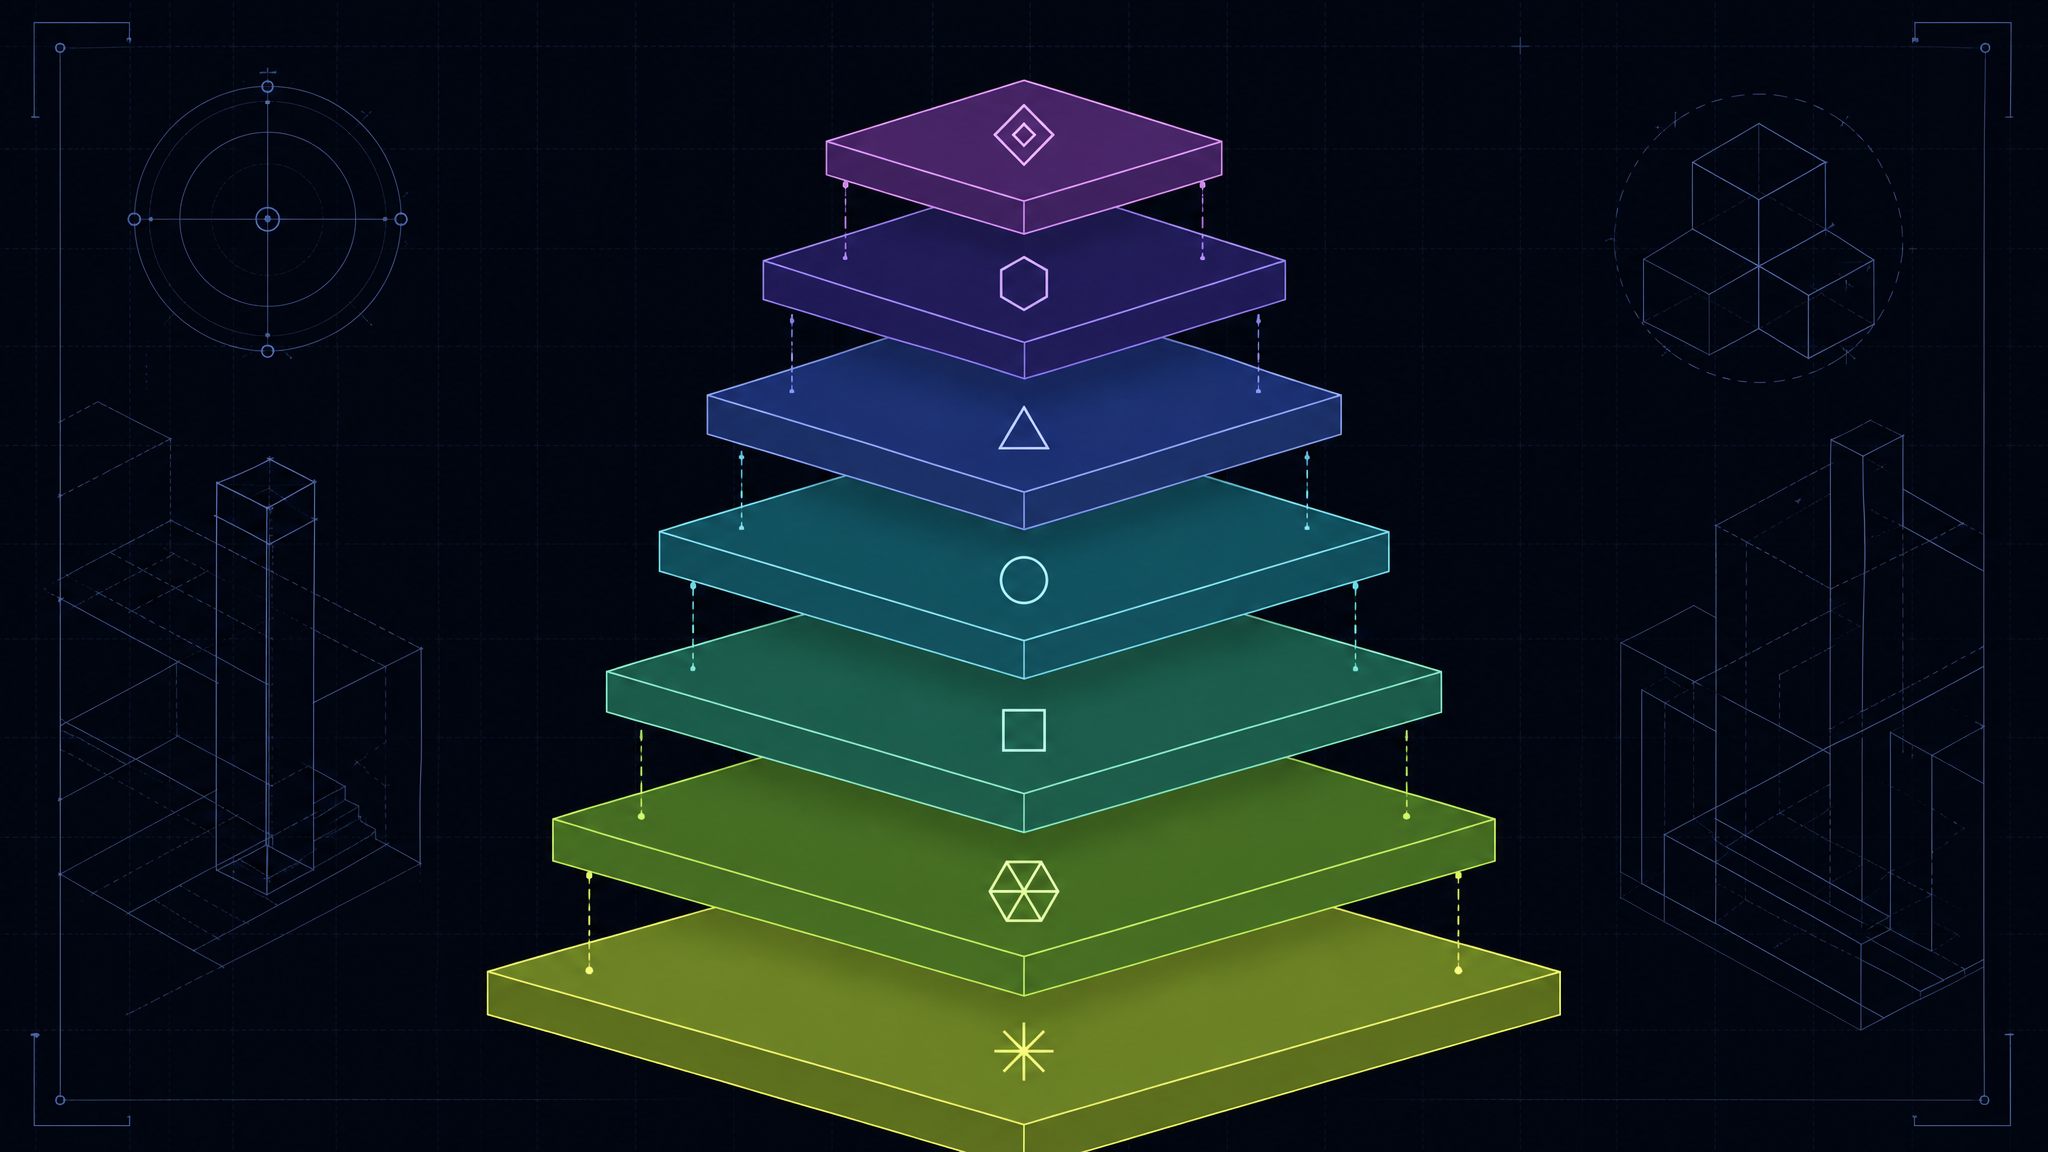
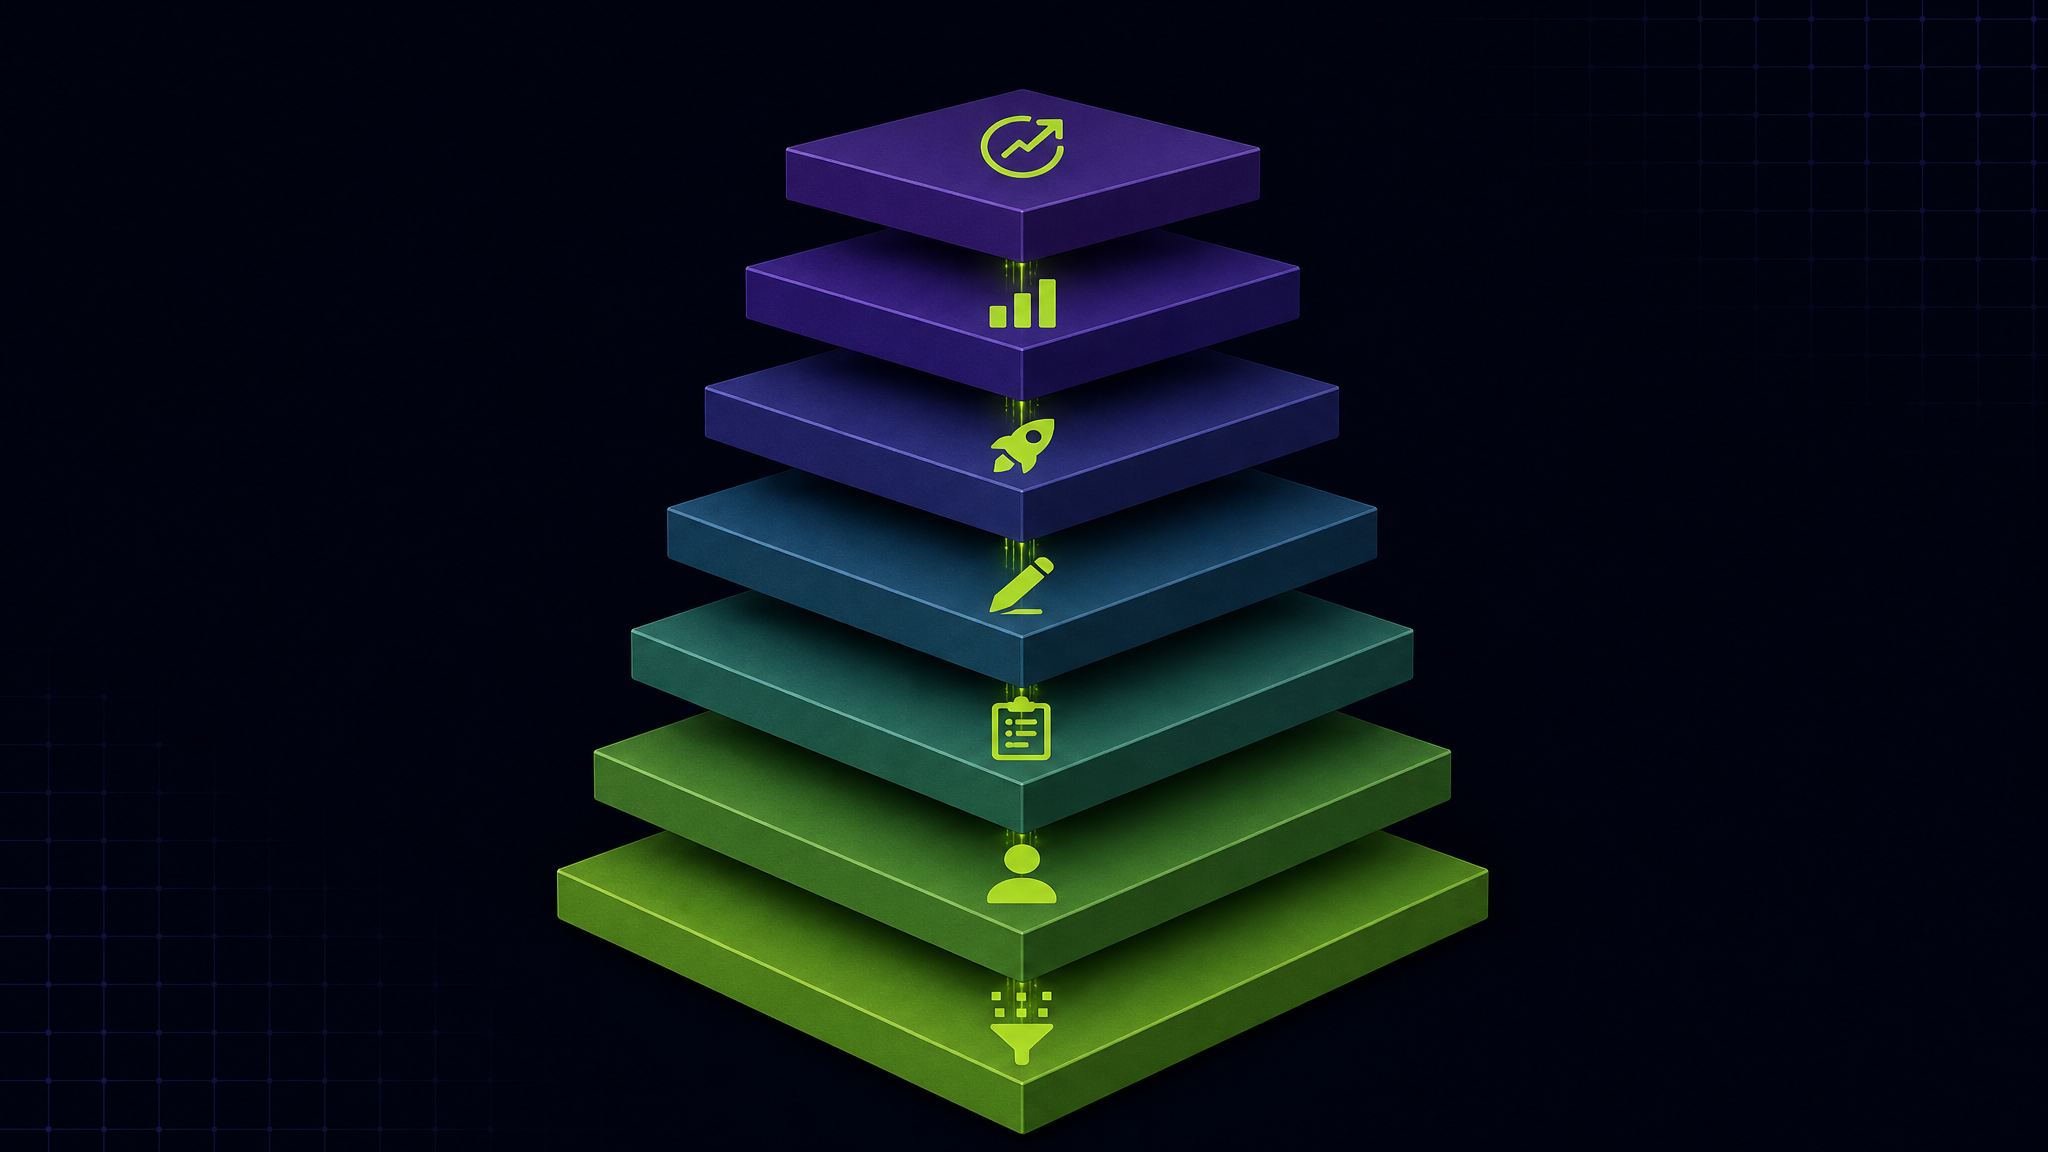
v4: drop Onboarding pillar, regenerate diagrams via skill-conforming 5-slot briefs, tighten hero copy

diff --git a/index.html b/index.html
@@ -440,10 +440,10 @@
   <section class="hero container">
     <div class="reveal"><span class="eyebrow"><span class="dot"></span>For your engagement, your onboarding, your stack</span></div>
     <h1 class="reveal reveal-d1">
-      The architecture behind <span class="leaf">your Icarus engagement.</span>
+      Seven engines run <span class="leaf">your brand at Icarus.</span>
     </h1>
     <p class="lead reveal reveal-d2">
-      Eight pillars. One operating layer beneath them. Built since 2016 across two hundred restricted-vertical brands, fifty million dollars in client revenue. What follows is what runs for you when the kick-off lands.
+      What each engine does, what you see while it runs, and what we ship in your first ninety days.
     </p>
     <div class="hero-foot reveal reveal-d3">
       <span><span class="mono">since</span> 2016</span>
@@ -456,9 +456,9 @@
     </div>
 
     <div class="hero-art reveal">
-      <img src="public/diagrams/01-hero-stack.png" alt="The Icarus stack — eight pillars on one operating layer">
+      <img src="public/diagrams/01-hero-stack.png" alt="The Icarus stack — seven engines on one operating layer">
       <div class="hero-art-meta">
-        <span><b>The Icarus stack</b> · eight pillars on one operating layer</span>
+        <span><b>The Icarus stack</b> · seven engines on one operating layer</span>
         <span><span class="d"></span>Scroll for the engine rooms</span>
       </div>
     </div>
@@ -472,8 +472,8 @@
         <div class="l">Operating continuously inside restricted verticals on Meta, Google, TikTok and email infrastructure. Practitioner depth no generalist agency can build from cold.</div>
       </div>
       <div class="pos-item reveal reveal-d1">
-        <div class="v">8 pillars</div>
-        <div class="l">SEO, email, paid Meta, paid Google, web, creative, dashboard, onboarding. Each one a real architecture, not a service line.</div>
+        <div class="v">7 engines</div>
+        <div class="l">SEO, email, paid Meta, paid Google, web, creative, dashboard. Each one a real architecture, not a service line.</div>
       </div>
       <div class="pos-item reveal reveal-d2">
         <div class="v">1 layer</div>
@@ -492,8 +492,8 @@
       <div class="section-head">
         <div>
           <span class="section-tag">The Stack</span>
-          <h2 class="reveal">Eight pillars, one operating layer.</h2>
-          <p class="reveal reveal-d1">Every pillar reads the same brand pack. Every artefact passes the same gate sequence. The system gets better while it runs.</p>
+          <h2 class="reveal">Seven engines, one operating layer.</h2>
+          <p class="reveal reveal-d1">Every engine reads the same brand pack. Every artefact passes the same five quality gates. The system gets better while it runs.</p>
         </div>
       </div>
 
@@ -506,7 +506,6 @@
           <div class="stack-pillar"><span class="num">05</span><h4>Web & landing pages</h4><p>Two-turn agentic build protocol, ConversionWise anatomy.</p></div>
           <div class="stack-pillar"><span class="num">06</span><h4>Creative production</h4><p>Six workflows, persona consistency, Intelligence Bank-driven briefs.</p></div>
           <div class="stack-pillar"><span class="num">07</span><h4>Client dashboard</h4><p>Live ad-level performance, drill-through, exports.</p></div>
-          <div class="stack-pillar"><span class="num">08</span><h4>Onboarding service</h4><p>Hardened intake from signature to first deliverable.</p></div>
         </div>
 
         <div class="substrate">
@@ -514,7 +513,7 @@
             <svg viewBox="0 0 24 24" fill="none" stroke="currentColor" stroke-width="2" stroke-linecap="round" stroke-linejoin="round"><rect x="3" y="3" width="18" height="18" rx="3"/><path d="M9 3v18"/><path d="M3 9h18"/><circle cx="6" cy="6" r="1" fill="currentColor"/><circle cx="6" cy="12" r="1" fill="currentColor"/><circle cx="6" cy="18" r="1" fill="currentColor"/><circle cx="12" cy="6" r="1" fill="currentColor"/><circle cx="18" cy="6" r="1" fill="currentColor"/></svg>
             <div>
               <h4>The AI operations layer</h4>
-              <p>Runs beneath every pillar above. Not a ninth service.</p>
+              <p>Runs beneath every engine above. Not an eighth service.</p>
             </div>
           </div>
           <div class="r">The substrate</div>
@@ -923,56 +922,6 @@
           </div>
         </article>
 
-        <!-- =========== PILLAR 08 ONBOARDING =========== -->
-        <article class="pillar reveal">
-          <div class="pillar-head" onclick="togglePillar(this)">
-            <div class="pillar-num"><span class="lbl">Pillar</span>08</div>
-            <div class="pillar-text">
-              <h3>Onboarding service</h3>
-              <p>A hardened intake service that takes you from countersigned contract to live engagement on a single rail. Webhook-triggered the moment the contract lands. Named-sender welcome series. Operator approval gate before any client-facing message ships.</p>
-            </div>
-            <div class="pillar-cta">
-              <span class="lbl">Open</span>
-              <button class="toggle" aria-label="Expand"><svg width="15" height="15" viewBox="0 0 24 24" fill="none" stroke="currentColor" stroke-width="2.5" stroke-linecap="round" stroke-linejoin="round"><path d="M12 5v14"/><path d="M5 12h14"/></svg></button>
-            </div>
-          </div>
-          <div class="pillar-body">
-            <div class="pillar-body-inner">
-              <div>
-                <div class="pb-block">
-                  <h5>The intake spine</h5>
-                  <ul class="bullets">
-                    <li><b>FastAPI service</b> running on the agency's primary infrastructure.</li>
-                    <li><b>SignWell webhook</b> captures the moment the contract is countersigned.</li>
-                    <li><b>State machine</b> tracks each client through intake, welcome, brand-pack collection and pipeline assignment. Nothing falls between operators.</li>
-                    <li><b>Operator approval gate</b> on every client-facing email. Nothing ships from a bot without a human nod.</li>
-                    <li><b>Named sender</b> for client comms. Relationship continuity is built in at the protocol level.</li>
-                    <li><b>Per-client workspace</b> auto-generated to receive brand pack, design system, voice persona, products, keywords, compliance constraints and credentials.</li>
-                  </ul>
-                </div>
-              </div>
-              <div>
-                <div class="pb-block">
-                  <h5>What you see</h5>
-                  <ul class="bullets">
-                    <li>A clean intake flow from signature to first deliverable.</li>
-                    <li>One named point of contact for the relationship.</li>
-                    <li>A brand-pack collection process you fill in once and never again.</li>
-                  </ul>
-                </div>
-                <div class="pb-block">
-                  <h5>Outcome</h5>
-                  <div class="outcome">The first week of the engagement is uneventful. That is the point.</div>
-                  <div class="timeframe">
-                    <svg viewBox="0 0 24 24" fill="none" stroke="currentColor" stroke-width="2" stroke-linecap="round" stroke-linejoin="round"><circle cx="12" cy="12" r="9"/><path d="M12 7v5l3 3"/></svg>
-                    First touch within twenty-four hours of contract countersign. Brand pack collected within seven days.
-                  </div>
-                </div>
-              </div>
-            </div>
-          </div>
-        </article>
-
       </div>
     </div>
   </section>
@@ -986,7 +935,7 @@
             <span class="section-tag" style="margin-bottom:14px">The Substrate</span>
             <h2>The AI operations layer beneath every pillar.</h2>
           </div>
-          <p>Not a ninth service. The engine room that runs across the eight pillars above. The reason the work ships on time, on brand, and on quality. The client experiences it as reliability across the engagement, not as a deliverable in its own right.</p>
+          <p>Not an eighth service. The engine room that runs across the seven engines above. The reason the work ships on time, on brand, and on quality. You experience it as reliability across the engagement, not as a deliverable in its own right.</p>
         </div>
 
         <div style="margin:0 0 36px;border-radius:16px;overflow:hidden;border:1px solid var(--line-2);background:#0a0a0f">
@@ -1172,24 +1121,13 @@
             <li>Roadmap expanding across all pillars</li>
           </ul>
         </div>
-        <div class="price-card reveal reveal-d3">
-          <span class="lbl">Pillar 08</span>
-          <h4>Onboarding service</h4>
-          <div class="amt">Included<small>with any active pillar</small></div>
-          <p>Hardened intake from signed contract to live engagement on a single rail.</p>
-          <ul>
-            <li>Twenty-four-hour first touch</li>
-            <li>Brand pack collected once, never again</li>
-            <li>Named point of contact for the relationship</li>
-          </ul>
-        </div>
       </div>
 
       <div id="tab-full" style="display:none">
         <div class="price-bundle reveal">
           <div>
             <span class="section-tag" style="margin-bottom:8px">The Full Stack</span>
-            <h3>All eight pillars. One operating system. One invoice.</h3>
+            <h3>All seven engines. One operating system. One invoice.</h3>
             <div class="amt">From $12,000<small> / month</small></div>
             <p>Your entire digital pipeline run by Icarus, lead-gen through retention, on a single dashboard. Saves around twenty percent versus the same pillars taken separately.</p>
             <span class="save">~$3,500 monthly saving vs à la carte</span>
@@ -1202,7 +1140,6 @@
             <li><svg width="18" height="18" viewBox="0 0 24 24" fill="none" stroke="currentColor" stroke-width="2.5" stroke-linecap="round" stroke-linejoin="round"><path d="M5 12l5 5L20 7"/></svg><span>Web and landing pages</span></li>
             <li><svg width="18" height="18" viewBox="0 0 24 24" fill="none" stroke="currentColor" stroke-width="2.5" stroke-linecap="round" stroke-linejoin="round"><path d="M5 12l5 5L20 7"/></svg><span>Creative production</span></li>
             <li><svg width="18" height="18" viewBox="0 0 24 24" fill="none" stroke="currentColor" stroke-width="2.5" stroke-linecap="round" stroke-linejoin="round"><path d="M5 12l5 5L20 7"/></svg><span>Client dashboard</span></li>
-            <li><svg width="18" height="18" viewBox="0 0 24 24" fill="none" stroke="currentColor" stroke-width="2.5" stroke-linecap="round" stroke-linejoin="round"><path d="M5 12l5 5L20 7"/></svg><span>Onboarding service</span></li>
             <li><svg width="18" height="18" viewBox="0 0 24 24" fill="none" stroke="currentColor" stroke-width="2.5" stroke-linecap="round" stroke-linejoin="round"><path d="M5 12l5 5L20 7"/></svg><span>Dedicated account manager</span></li>
             <li><svg width="18" height="18" viewBox="0 0 24 24" fill="none" stroke="currentColor" stroke-width="2.5" stroke-linecap="round" stroke-linejoin="round"><path d="M5 12l5 5L20 7"/></svg><span>Priority delivery and review</span></li>
           </ul>
